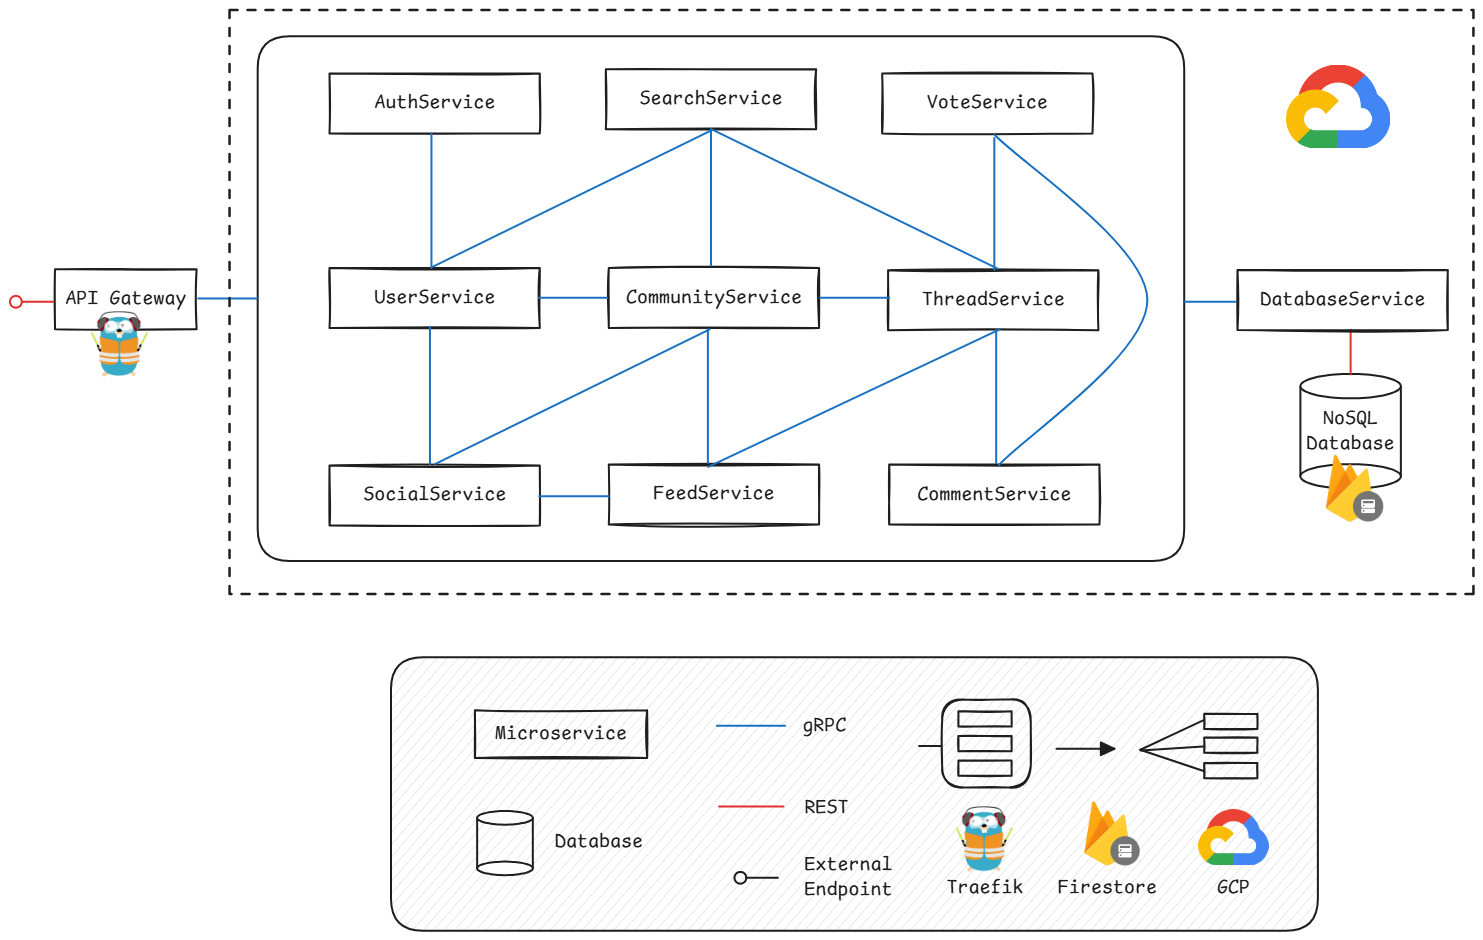
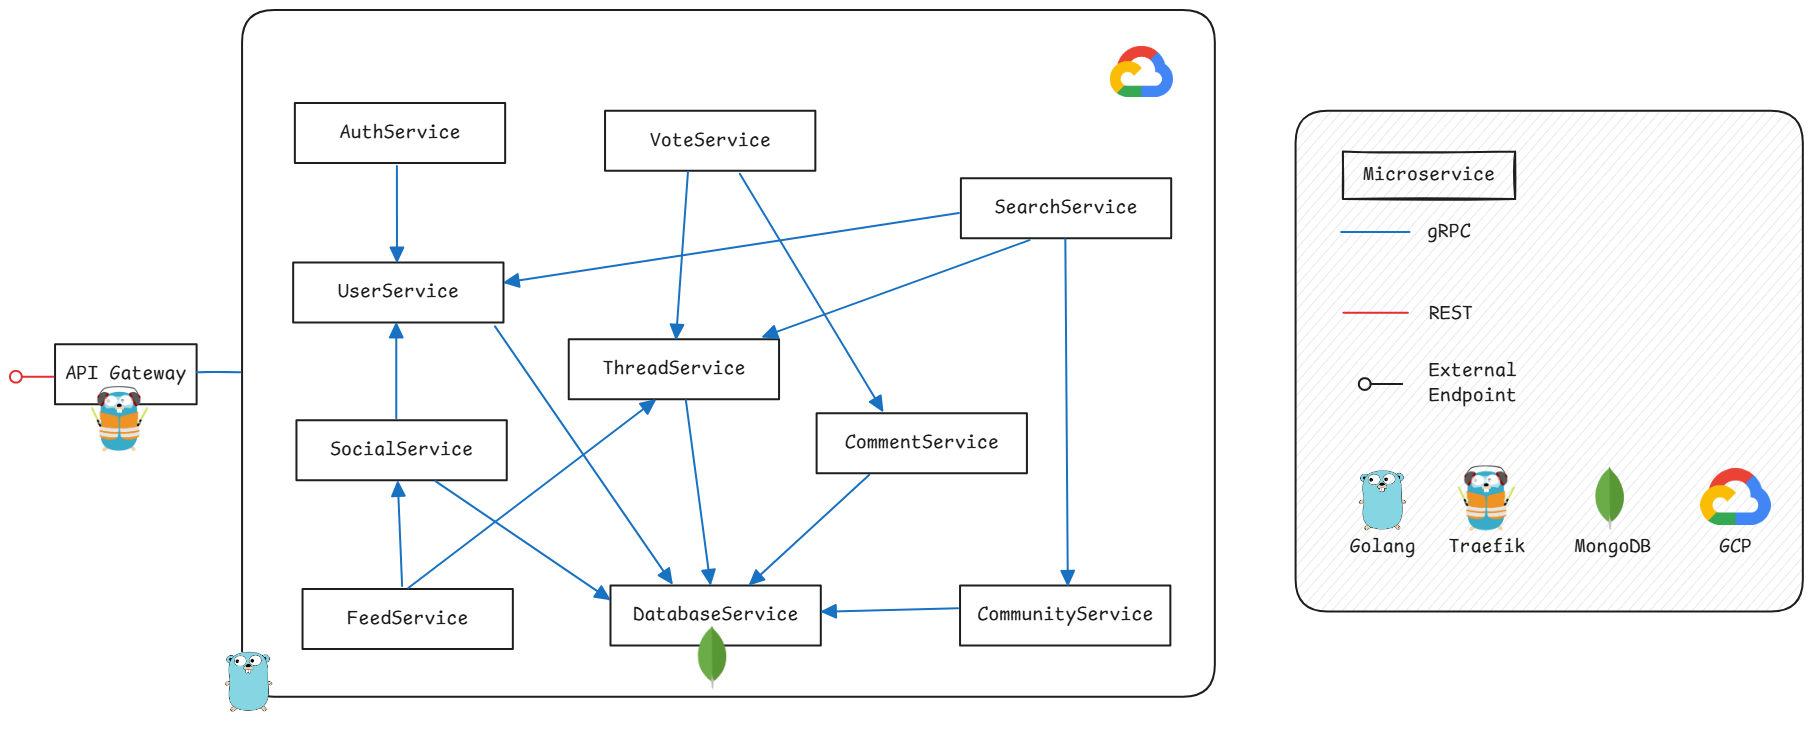
Update README & Architecture Diagram

diff --git a/README.md b/README.md
@@ -2,7 +2,7 @@
 
 # Threadit 💬
 
-Cloud Computing Project - Reddit Clone
+Cloud Computing Project - Reddit Clone API
 
 ![Contributors](https://img.shields.io/github/contributors/ThreaditApp/Threadit)
 ![GitHub repo size](https://img.shields.io/github/repo-size/ThreaditApp/Threadit)
@@ -21,7 +21,7 @@ Cloud Computing Project - Reddit Clone
 ## 🚀 Overview
 
 *Threadit* is cloud native application that offers a set of services that provide users the ability to connect, share and engage in discussions within communities through a REST API.
-Its architecture will follow a microservices model and be deployed on Google Cloud Platform (GCP).
+Its architecture will follow a microservices model with gRPC communication and be deployed on Google Cloud Platform (GCP) with Kubernetes.
 
 ## 🔍 Development Phases
 

diff --git a/docs/phases/phase3.md b/docs/phases/phase3.md
@@ -91,4 +91,4 @@
 
 ### 📦 Application Architecture
 
-![Application architecture](../images/diagram.png)
+![Application architecture](../images/architecture.png)
